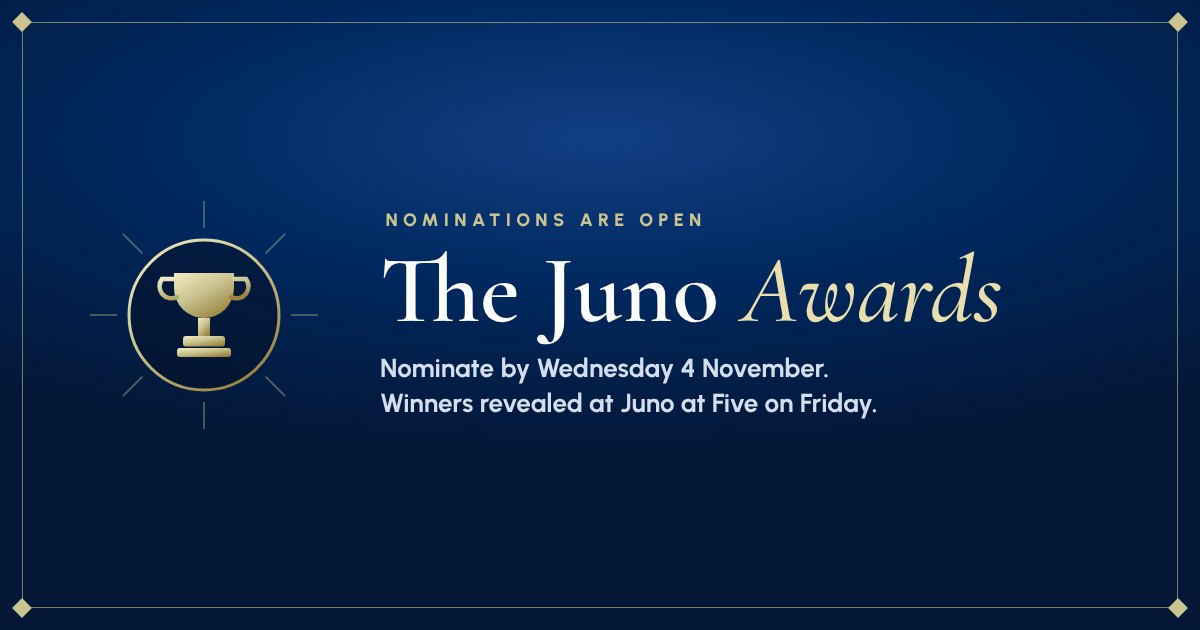
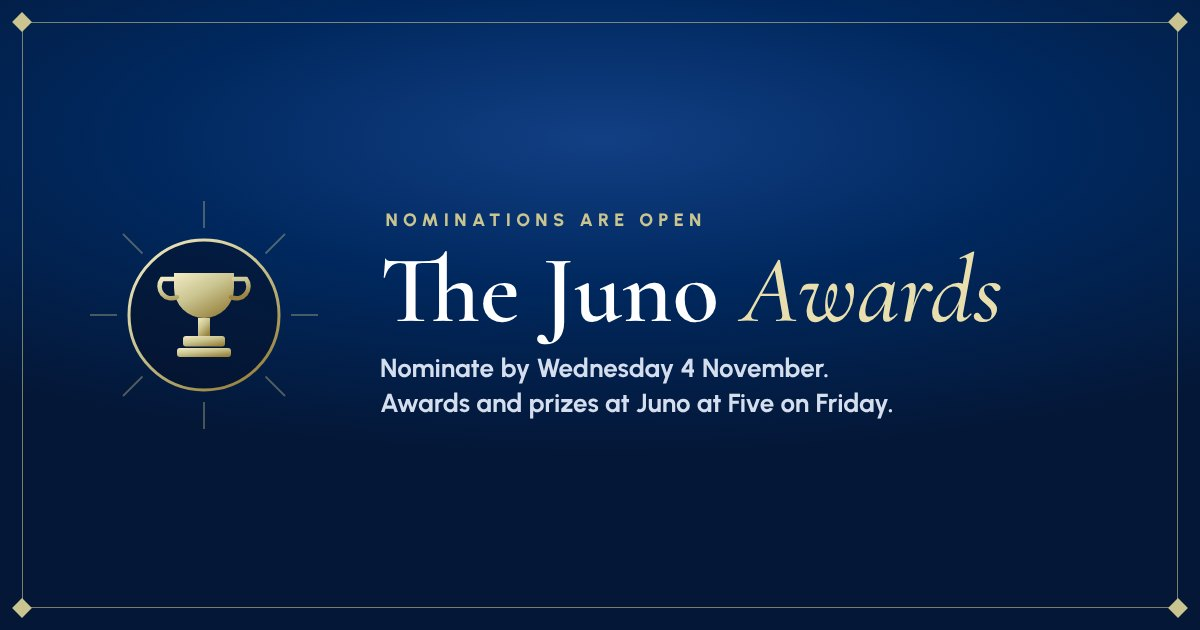
Juno Awards: three voted awards, winners shown on the page after voting, awards and prizes on Friday; Pioneer and Legacy mentioned as records awards
Claude-Session: https://claude.ai/code/session_01XdH3ECsCFRj6sJaFGNUV7W

Changed region(s): [[0.3083, 0.6032, 0.74, 0.6635]]

diff --git a/awards/index.html b/awards/index.html
@@ -3,11 +3,11 @@
 <head>
 <meta charset="utf-8">
 <meta name="viewport" content="width=device-width,initial-scale=1,viewport-fit=cover">
-<meta name="description" content="Nominate and vote for the Juno Awards. Winners are announced at Juno at Five on Friday 6 November.">
+<meta name="description" content="Nominate and vote for the Juno Awards. Winners collect their awards and prizes at Juno at Five on Friday 6 November.">
 <meta name="theme-color" content="#00285E">
 <meta property="og:type" content="website">
 <meta property="og:title" content="The Juno Awards: nominations are open">
-<meta property="og:description" content="Five awards for the people who make Juno home. Nominate by Wednesday 4 November; winners revealed at Juno at Five on Friday.">
+<meta property="og:description" content="Nominate the neighbours who make Juno home by Wednesday 4 November. Vote on Thursday; awards and prizes at Juno at Five on Friday.">
 <meta property="og:url" content="https://life.juno.africa/awards/">
 <meta property="og:image" content="https://life.juno.africa/awards/og.jpg">
 <meta property="og:image:width" content="1200">
@@ -18,7 +18,7 @@
 <link rel="preconnect" href="https://fonts.gstatic.com" crossorigin>
 <link rel="stylesheet" href="https://fonts.googleapis.com/css2?family=Cormorant+Garamond:ital,wght@0,600;1,500;1,600&family=Urbanist:wght@500;600;700;800;900&display=swap">
 <style>
-/* The Juno Awards: nominate (until Wed 4 Nov), vote on a shortlist (Thu 5 Nov), winners at Juno at Five (Fri 6 Nov). */
+/* The Juno Awards: nominate (until Wed 4 Nov), vote on a shortlist (Thu 5 Nov), winners shown here when voting closes, awards and prizes at Juno at Five (Fri 6 Nov). */
 :root{
   --bg:#00285E; --deep:#050F26; --panel:#0A3470; --line:#24508F; --field:#012152; --ink:#EFF3FA; --muted:#B9C6DE;
   --gold:#C9C490; --gold-hi:#F3EBC6; --gold-lo:#9A8440; --gold-ink:#050F26; --pick:#144587; --error:#FFB49A;
@@ -115,6 +115,12 @@ input:focus,textarea:focus{outline:none;border-color:var(--gold);box-shadow:0 0 
 .foot{margin-top:6px;padding-top:18px;border-top:1px solid rgba(36,80,143,.7);display:flex;flex-direction:column;gap:6px;font-size:13px;color:var(--muted)}
 .foot .credit a{color:inherit;text-decoration:underline;text-underline-offset:3px}
 .foot .credit strong{color:var(--ink)}
+.also{display:flex;gap:14px;align-items:flex-start;border:1px dashed rgba(201,196,144,.55);border-radius:22px;padding:18px 20px;background:rgba(5,15,38,.25)}
+.also b{display:block;font-size:12px;font-weight:900;letter-spacing:.16em;text-transform:uppercase;color:var(--gold);margin-bottom:6px}
+.also p{font-size:15px;line-height:1.5;color:#D5DEEE}
+.also strong{color:var(--ink)}
+.winner{display:flex;flex-direction:column;gap:8px;align-items:flex-start}
+.wname{font-family:var(--serif);font-weight:600;font-size:32px;line-height:1.05;color:var(--gold-hi)}
 #confetti{position:fixed;inset:0;width:100%;height:100%;pointer-events:none;z-index:40}
 @media (max-width:420px){.two{grid-template-columns:1fr}.step span{font-size:12.5px}}
 @media (prefers-reduced-motion:reduce){.crest .rays,.shine,.go::after,.tick{animation:none!important}.rise{animation:none;opacity:1;transform:none}}
@@ -143,12 +149,12 @@ input:focus,textarea:focus{outline:none;border-color:var(--gold);box-shadow:0 0 
     <div class="titles">
       <p class="eyebrow rise" style="animation-delay:.1s">Juno at Five · Friday 6 November</p>
       <h1 class="rise" style="animation-delay:.2s">The Juno <span class="shine">Awards</span></h1>
-      <p class="lead rise" id="lead" style="animation-delay:.3s">Five awards for the people who make Juno home. Nominate your neighbours for three of them, then vote for your favourites on Thursday.</p>
+      <p class="lead rise" id="lead" style="animation-delay:.3s">Three awards and a winner in each building, chosen by you. Nominate your neighbours, vote on the shortlist, and the winners collect their awards and prizes at Juno at Five on Friday.</p>
     </div>
     <div class="steps rise" style="animation-delay:.4s" aria-label="How it works">
       <div class="step" id="st1"><b>Nominate</b><span>Until Wed 4 Nov</span></div>
       <div class="step" id="st2"><b>Vote</b><span>Thu 5 Nov</span></div>
-      <div class="step" id="st3"><b>Winners</b><span>Fri 6 Nov, at Juno at Five</span></div>
+      <div class="step" id="st3"><b>Awards</b><span>Fri 6 Nov at Juno at Five</span></div>
     </div>
   </div>
 </header>
@@ -180,6 +186,7 @@ input:focus,textarea:focus{outline:none;border-color:var(--gold);box-shadow:0 0 
   </form>
 
   <p class="notice" id="notice" hidden></p>
+  <div id="results" hidden style="display:flex;flex-direction:column;gap:16px"></div>
 
   <section class="done" id="doneView" hidden>
     <div class="tick" aria-hidden="true"><svg width="34" height="34" viewBox="0 0 24 24" fill="none" stroke="#050F26" stroke-width="3" stroke-linecap="round" stroke-linejoin="round"><path d="M5 12.5l4.5 4.5L19 7.5"/></svg></div>
@@ -215,22 +222,30 @@ const ICONS = {
   homes: '<path d="M2 20h20M3.5 20v-8l5-4 5 4v8M12.5 20v-5.5l4-3.2 4 3.2V20"/>',
 };
 const AWARDS = [
-  { id: "pioneer", name: "The Juno Pioneer Award", icon: "hourglass", records: true,
-    what: "Our longest-staying member, chosen from Juno's own records. There's nothing to nominate, just be there to cheer." },
   { id: "engaged", name: "The Most Engaged Member", icon: "star",
     what: "A member who consistently shows up for Juno events and activities." },
   { id: "neighbour", name: "The Ultimate Good Neighbour", icon: "heart",
     what: "Someone who is considerate, respectful and thoughtful towards other residents, and always willing to lend a helping hand." },
   { id: "trailblazer", name: "The Juno Trailblazer Award", icon: "flag",
     what: "A member who has introduced new ideas or initiatives that have positively influenced the community." },
-  { id: "legacy", name: "The Juno Legacy Award", icon: "homes", records: true, both: true,
-    what: "For members whose journey reflects the growth and evolution of Juno: those who have called both Karimu and Emily Akinola home. Chosen from Juno's records." },
 ];
+
+// Presented on the night from Juno's records, so they have no nominations or votes.
+const ALSO = '<div class="also">' + '<div class="ico"><svg viewBox="0 0 24 24" aria-hidden="true">' + ICONS.homes + '</svg></div>' +
+  '<p><b>Also presented on Friday</b><strong>The Juno Pioneer Award</strong> for our longest-staying member in each building, and ' +
+  '<strong>the Juno Legacy Award</strong> for members who have called both Karimu and Emily Akinola home. ' +
+  "Both come from Juno's records, so there's nothing to nominate.</p></div>";
 
 // The voting shortlist, filled in from the nominations once they close (up to three names per award, per building).
 const SHORTLIST = {
   "Karimu": { engaged: [], neighbour: [], trailblazer: [] },
   "Emily Akinola": { engaged: [], neighbour: [], trailblazer: [] },
+};
+
+// The winners, filled in from the votes once voting closes. They show on this page; awards and prizes are presented on Friday.
+const WINNERS = {
+  "Karimu": { engaged: "", neighbour: "", trailblazer: "" },
+  "Emily Akinola": { engaged: "", neighbour: "", trailblazer: "" },
 };
 
 const REDUCED = window.matchMedia && window.matchMedia("(prefers-reduced-motion: reduce)").matches;
@@ -251,8 +266,13 @@ const REDUCED = window.matchMedia && window.matchMedia("(prefers-reduced-motion:
   // Timeline
   const idx = { nominate: 0, vote: 1, closed: 2 }[phase];
   ["st1", "st2", "st3"].forEach((id, i) => { $(id).classList.toggle("on", i === idx); $(id).classList.toggle("done", i < idx); });
-  if (phase === "vote") $("lead").textContent = "Here's the shortlist from your nominations. Pick one person for each award, and the winners are revealed at Juno at Five on Friday.";
-  if (phase === "closed") $("lead").textContent = "Nominations and voting are closed. Thank you for taking part. The winners are revealed at Juno at Five on Friday 6 November on the Karimu rooftop.";
+  const hasWinners = (b) => Object.values(WINNERS[b] || {}).some(Boolean);
+  const anyWinners = hasWinners("Karimu") || hasWinners("Emily Akinola");
+  if (phase === "vote") $("lead").textContent = "Here's the shortlist from your nominations. Pick one person for each award. The winners show here once voting closes, and collect their awards and prizes at Juno at Five on Friday.";
+  if (phase === "closed") $("lead").textContent = anyWinners
+    ? "Voting has closed and the results are in. Pick your building to see its winners, who collect their awards and prizes at Juno at Five on Friday 6 November."
+    : "Voting has closed. Thank you for taking part! The winners will show here shortly, and collect their awards and prizes at Juno at Five on Friday.";
+  let cheered = false;
 
   const icon = (n) => `<div class="ico"><svg viewBox="0 0 24 24" aria-hidden="true">${ICONS[n]}</svg></div>`;
   const head = (a) => `<div class="card-h">${icon(a.icon)}<div><h2>${a.name}</h2><p class="what">${a.what}</p></div></div>`;
@@ -260,8 +280,18 @@ const REDUCED = window.matchMedia && window.matchMedia("(prefers-reduced-motion:
   function render() {
     const cards = $("cards");
     $("notice").hidden = true;
-    if (phase === "closed") { $("buildingWrap").hidden = true; $("form").hidden = true; $("notice").hidden = false;
-      $("notice").textContent = "See you on the rooftop on Friday from 6pm. Every winner is announced on the night."; return; }
+    $("results").hidden = true;
+    if (phase === "closed") {
+      $("form").hidden = true;
+      if (!state.building) return;
+      if (!hasWinners(state.building)) { $("notice").hidden = false;
+        $("notice").textContent = "The winners for " + state.building + " will show here shortly. Awards and prizes are presented at Juno at Five on Friday from 6pm on the Karimu rooftop."; return; }
+      const w = WINNERS[state.building];
+      $("results").innerHTML = AWARDS.map((a) => `<section class="card filled">${head(a)}<div class="winner"><span class="tag">${w[a.id] ? "Winner" : "To be announced"}</span>${w[a.id] ? `<p class="wname">${esc(w[a.id])}</p>` : ""}</div></section>`).join("") + ALSO;
+      $("results").hidden = false;
+      if (!cheered) { cheered = true; celebrate(); }
+      return;
+    }
     if (!state.building) { $("form").hidden = true; return; }
     if (phase === "nominate") {
       cards.innerHTML = AWARDS.map((a) => a.records
@@ -272,7 +302,7 @@ const REDUCED = window.matchMedia && window.matchMedia("(prefers-reduced-motion:
               <div class="field"><label class="label" for="r-${a.id}">Their room <span class="opt">(optional)</span></label><input type="text" id="r-${a.id}" maxlength="12"></div>
             </div>
             <div class="field"><label class="label" for="w-${a.id}">Why do they deserve it? <span class="opt">(optional)</span></label><textarea id="w-${a.id}" maxlength="240" placeholder="A line or two. The best ones may be read out on the night."></textarea></div>
-          </section>`).join("");
+          </section>`).join("") + ALSO;
       cards.querySelectorAll("[data-award] input:first-of-type").forEach((inp) => inp.addEventListener("input", () => inp.closest(".card").classList.toggle("filled", !!inp.value.trim())));
       $("go").textContent = "Send my nominations";
     } else {
@@ -284,7 +314,7 @@ const REDUCED = window.matchMedia && window.matchMedia("(prefers-reduced-motion:
         ? `<section class="card">${head(a)}<span class="tag">${a.both ? "From Juno's records · Both buildings" : "From Juno's records"}</span></section>`
         : `<section class="card" data-award="${a.id}">${head(a)}<div class="choices" role="radiogroup" aria-label="${a.name}">
             ${(list[a.id] || []).map((n) => `<button type="button" class="choice" role="radio" aria-checked="${state.picks[a.id] === n}" data-award="${a.id}" data-name="${esc(n)}"><span class="dot"></span>${esc(n)}</button>`).join("") || '<p class="hint">No nominations in this building yet.</p>'}
-          </div></section>`).join("");
+          </div></section>`).join("") + ALSO;
       cards.querySelectorAll(".choice").forEach((b) => b.addEventListener("click", () => {
         state.picks[b.dataset.award] = b.dataset.name;
         cards.querySelectorAll(`.choice[data-award="${b.dataset.award}"]`).forEach((x) => x.setAttribute("aria-checked", String(x === b)));
@@ -341,8 +371,8 @@ const REDUCED = window.matchMedia && window.matchMedia("(prefers-reduced-motion:
         $("form").hidden = true; $("buildingWrap").hidden = true;
         $("doneTitle").textContent = phase === "nominate" ? `Your nominations are in, ${first}!` : `Your votes are in, ${first}!`;
         $("doneText").textContent = phase === "nominate"
-          ? "Voting opens on Thursday 5 November with a shortlist for each award. Winners are revealed at Juno at Five on Friday."
-          : "Thank you for voting. The winners are revealed at Juno at Five on Friday 6 November, from 6pm on the Karimu rooftop.";
+          ? "Voting opens on Thursday 5 November with a shortlist for each award. The winners show here when voting closes, and collect their awards and prizes at Juno at Five on Friday."
+          : "Thank you for voting. The winners show here when voting closes on Thursday night, and awards and prizes are presented at Juno at Five on Friday from 6pm.";
         const msg = phase === "nominate"
           ? "Nominations for the Juno Awards are open! Nominate your neighbours by Wednesday night: " + PAGE_URL
           : "Voting for the Juno Awards is open today! Cast your votes here: " + PAGE_URL;
